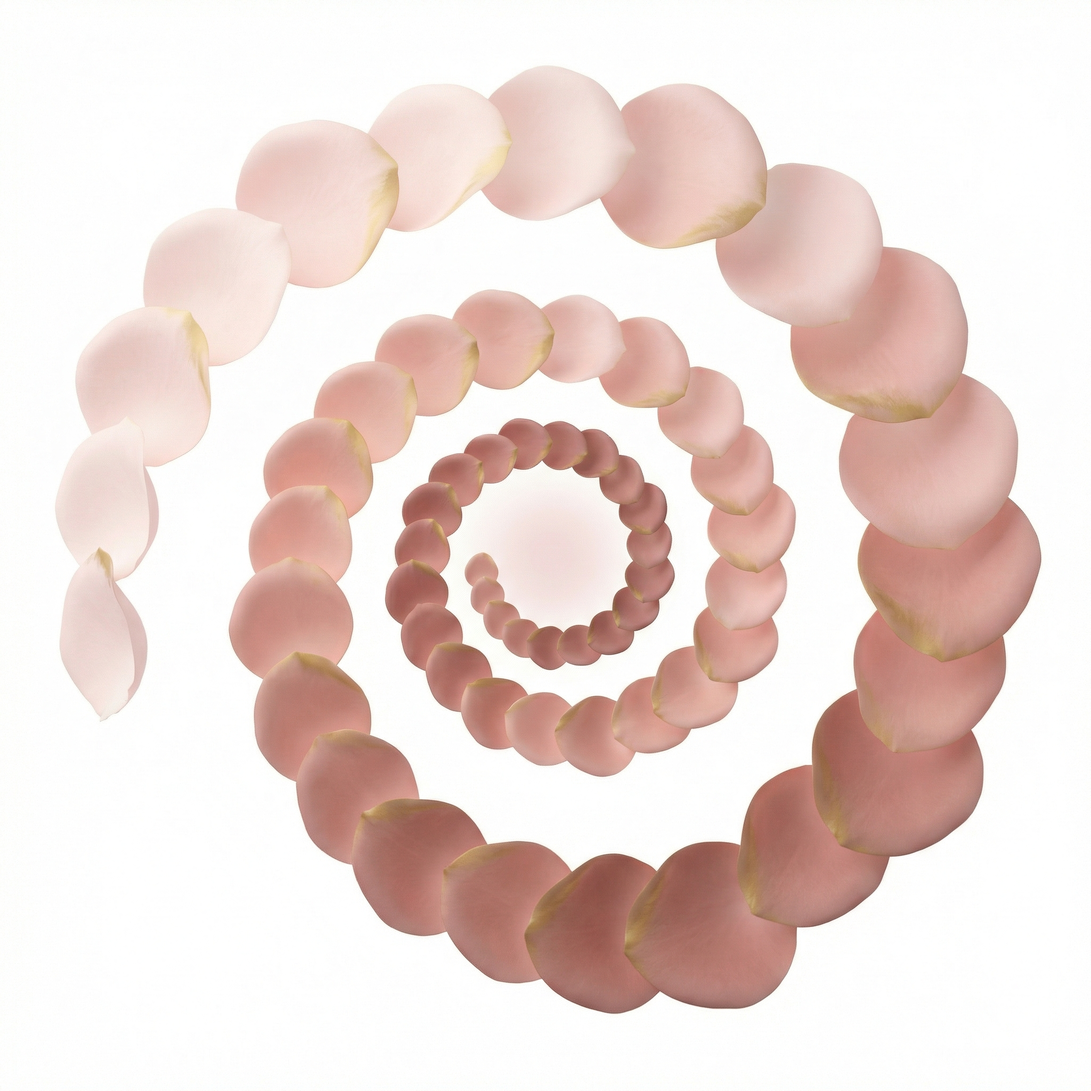
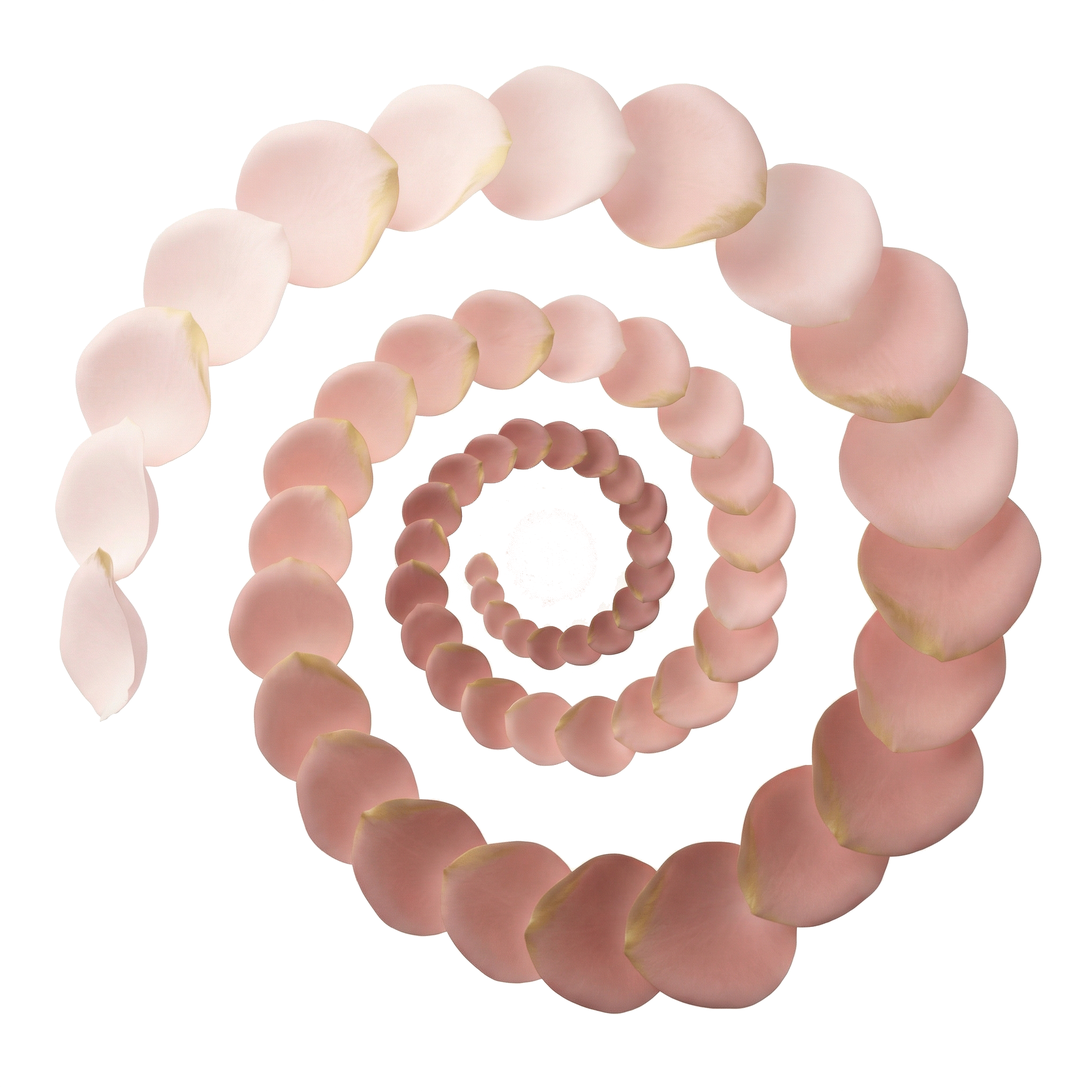
Update page images and add enrollment hero image
- Add page-enroll.png for enrollment page hero
- Update page-guardians, page-home, page-offerings, page-programs, page-the-codex, page-the-rose
- Enroll page now uses page-enroll.png instead of page-contact.png

Changed region(s): [[0.4375, 0.4375, 0.5625, 0.5625]]

diff --git a/src/app/(forms)/enroll/page.tsx b/src/app/(forms)/enroll/page.tsx
@@ -42,7 +42,7 @@ export default function EnrollPage() {
           className="flex justify-center pointer-events-none"
         >
           <Image
-            src="/page-images/page-contact.png"
+            src="/page-images/page-enroll.png"
             alt=""
             width={448}
             height={448}
